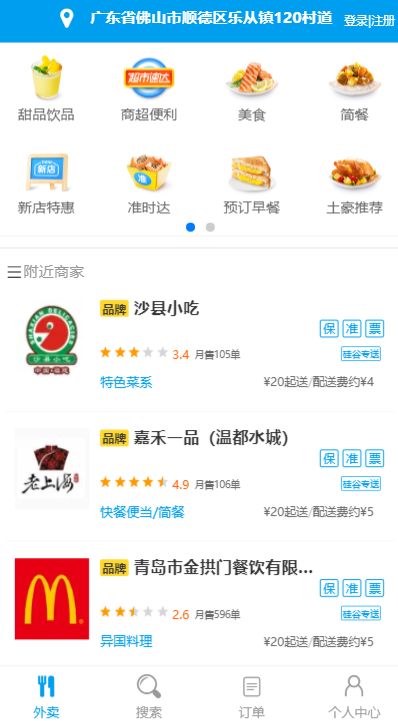
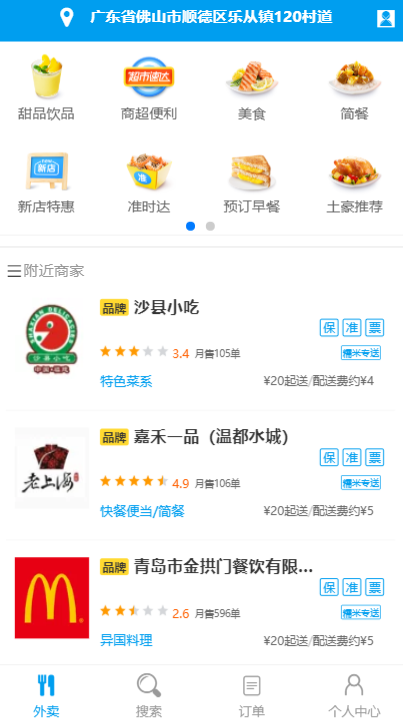
img

diff --git a/rumi_vue/rumi_app/src/components/itemList.vue b/rumi_vue/rumi_app/src/components/itemList.vue
@@ -28,7 +28,7 @@
                         </div>
                       </section>
                       <section class="shop_rating_order_right">
-                        <span class="delivery_style delivery_right">硅谷专送</span>
+                        <span class="delivery_style delivery_right">糯米专送</span>
                       </section>
                     </section>
                     <section class="shop_distance" >
